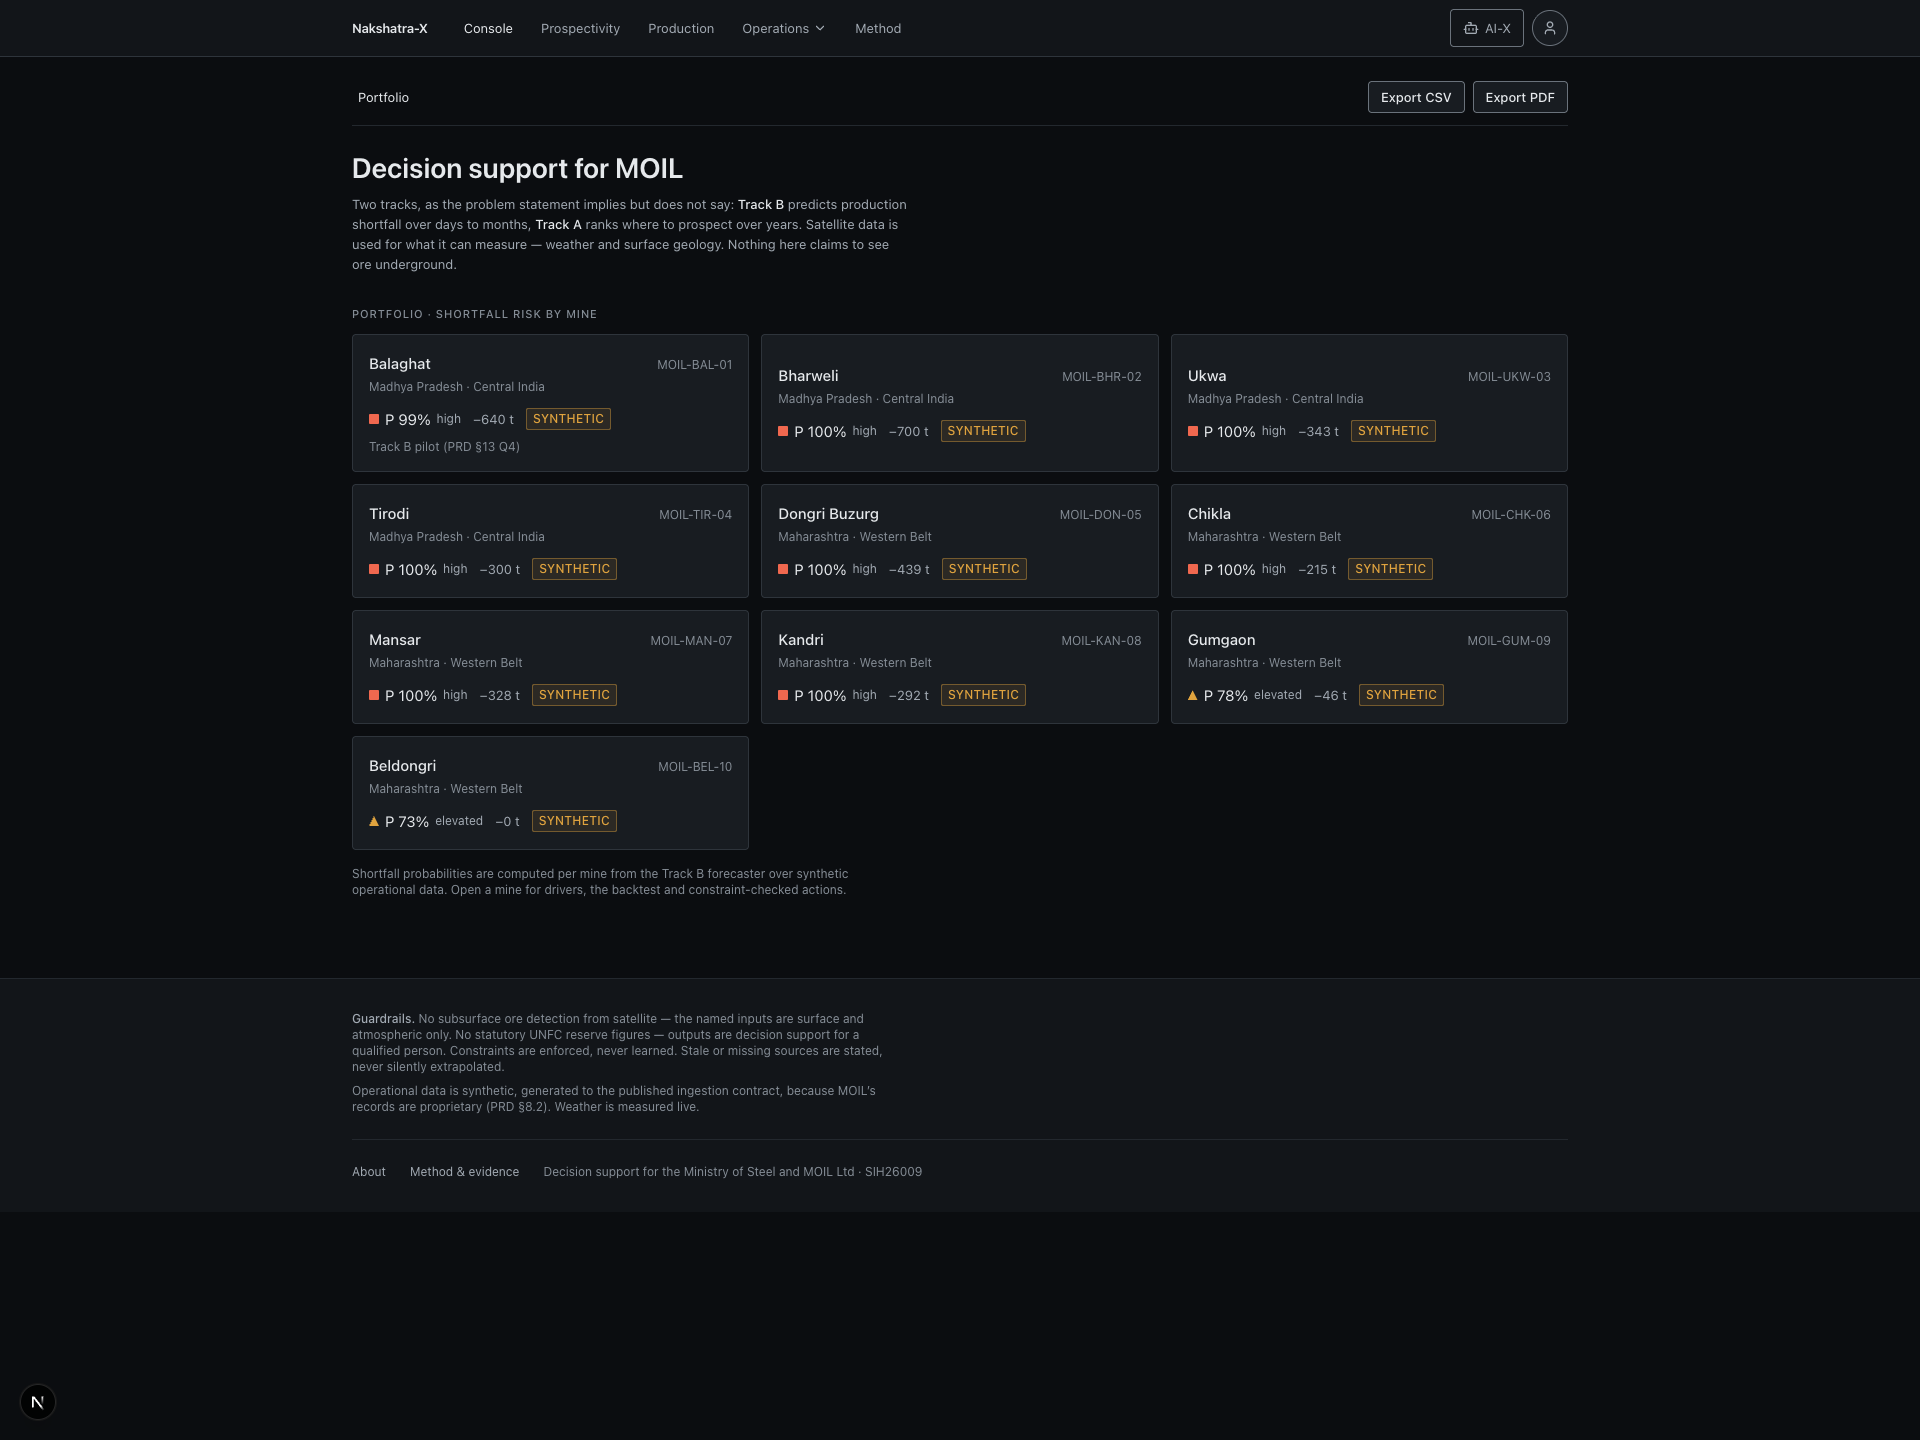
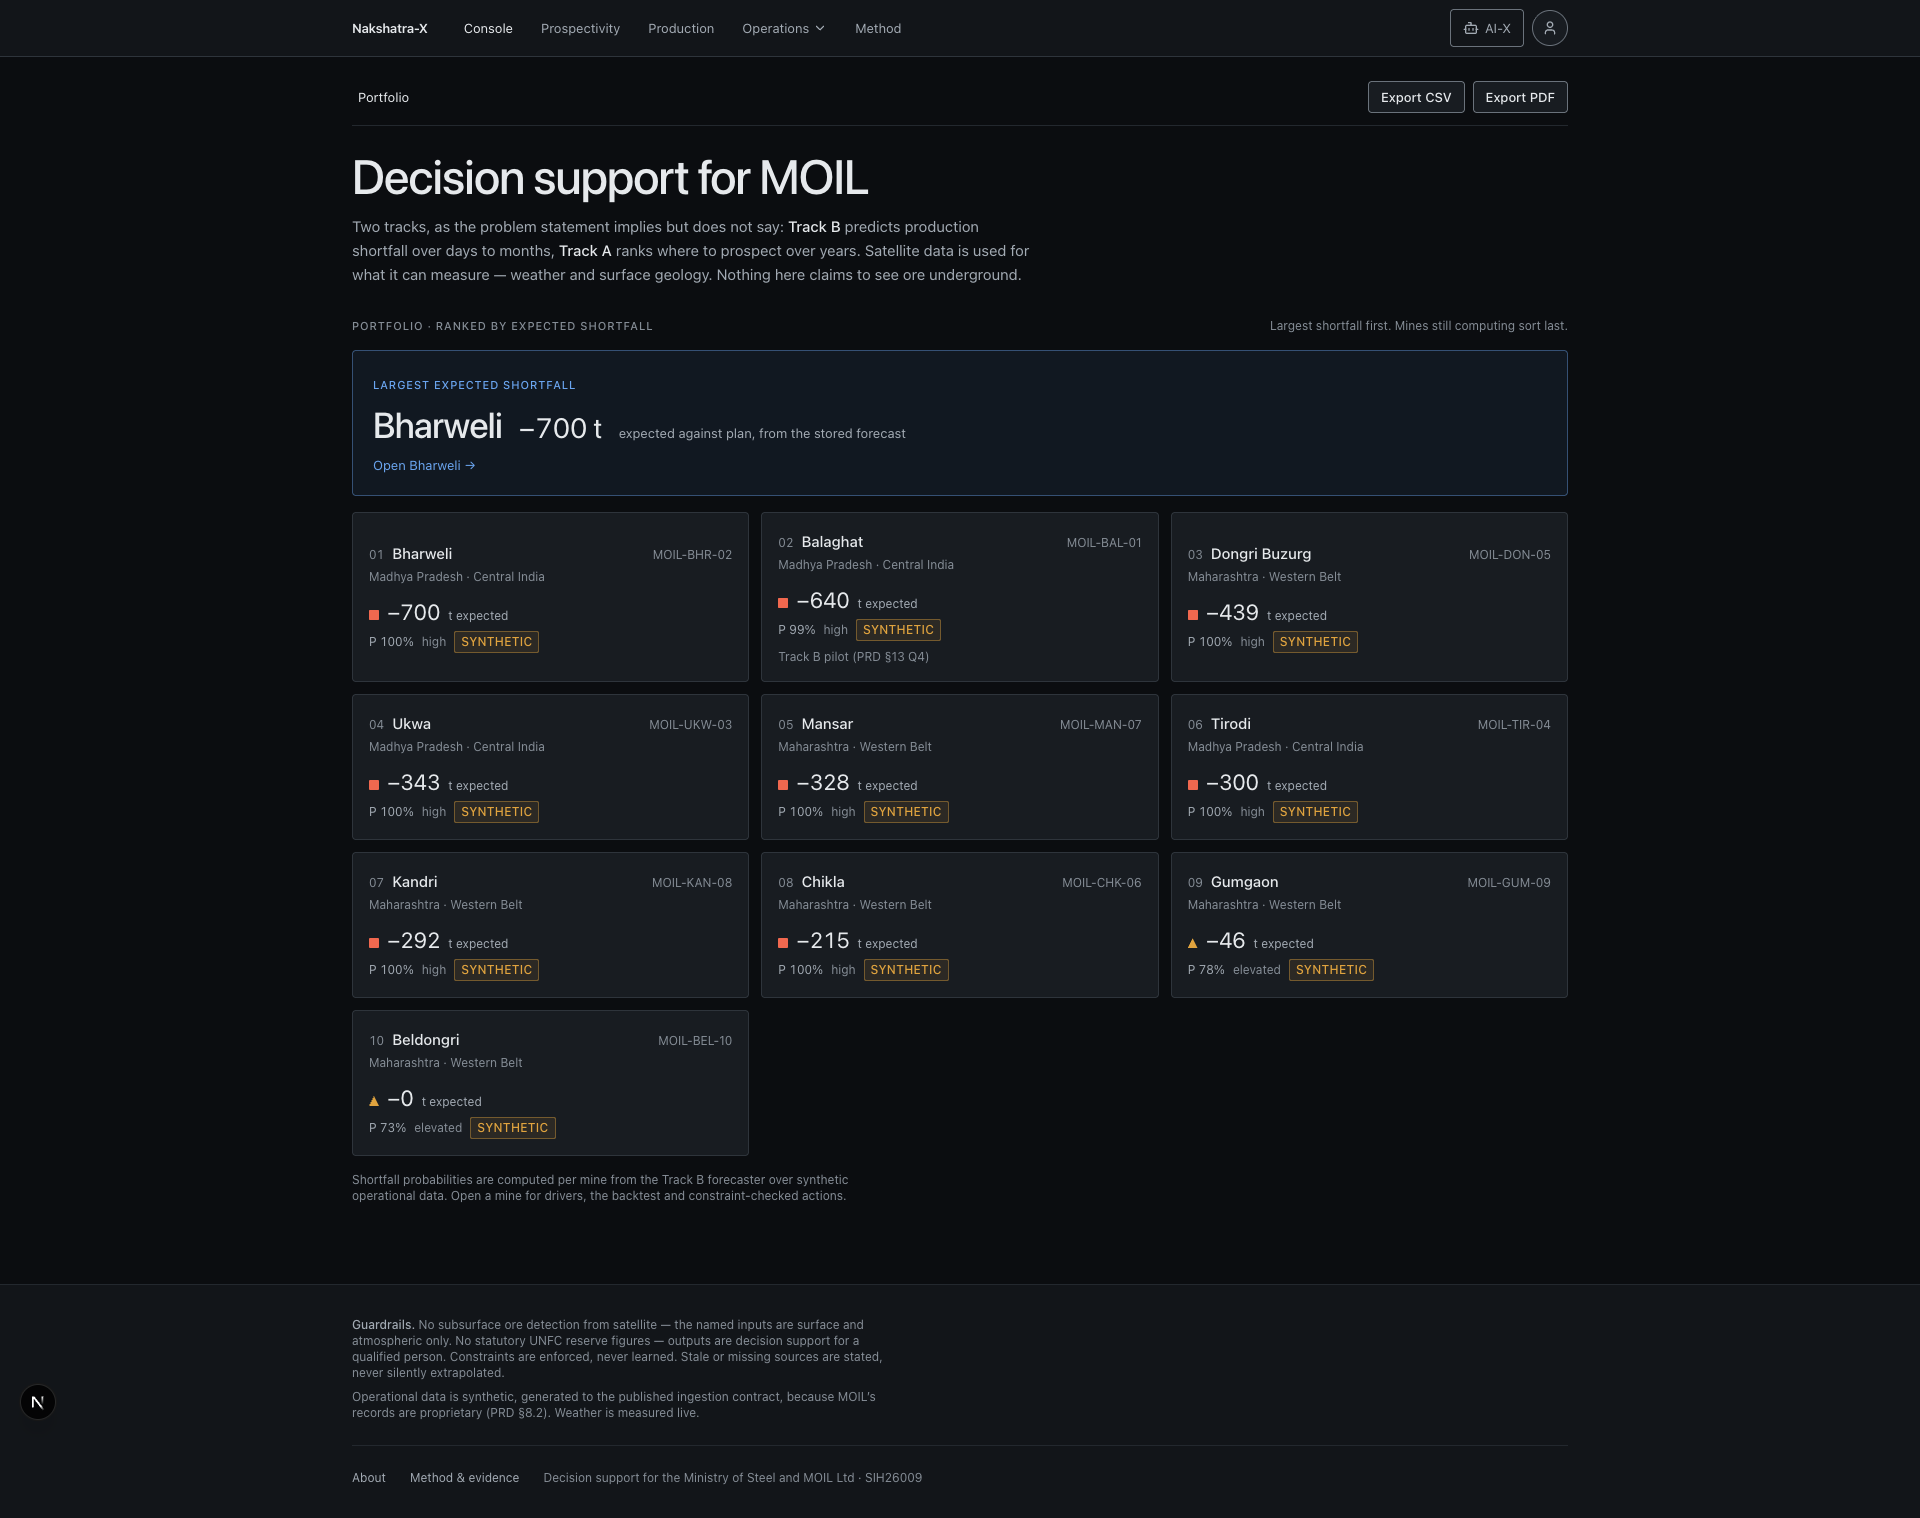
fix(a11y,cls): name the AI-X button, reserve the focal band, calm console motion
Committing the working tree before the P(shortfall) investigation.

Accessibility. The AI-X button's label is `hidden sm:inline` and its icon is
aria-hidden, so below 640px it had no accessible name at all. The project's axe
run only visits desktop widths, which is why it passed there; Lighthouse's
mobile emulation caught it. /console accessibility 94 -> 100.

Layout shift. The focal band appeared only once the first forecasts resolved and
pushed the grid down: CLS 0.158 against a target of 0.1. It reserves its height
now and shows a "ranking the portfolio" placeholder in the meantime, which is how
the cards below it were already built. CLS 0.158 -> 0.057, performance 84 -> 92.

Mine detail. Two named sections — "What the forecaster expects" and "Why you
should believe it" — so the rolling-origin backtest is no longer the seventh
identical panel down the page (B-1 confusions 6 and 7).

Motion. Product surfaces get a bounded panel-enter (180ms, transform and opacity)
and a one-shot resolve highlight; no loops. test:motion now covers the console
and asserts no transition animates a layout property, which is the assertion that
matters rather than an allowlist of compositable ones.

The new constraint-check handler is declared public in the auth matrix with its
reason, like the other stateless computations.

diff --git a/frontend/tools/e2e-motion.js b/frontend/tools/e2e-motion.js
@@ -140,6 +140,64 @@ const sleep = (ms) => new Promise((r) => setTimeout(r, ms))
     await page.close()
   }
 
+  // ---- product surfaces: calm, functional, bounded ------------------------
+  {
+    console.log('\nConsole — product-surface motion\n')
+    const page = await browser.newPage()
+    await page.setViewport({ width: 1280, height: 1000 })
+    await page.goto(`${BASE}/console?mine=1&track=b`, { waitUntil: 'networkidle2', timeout: 60000 })
+    await sleep(14000)
+
+    const motion = await page.evaluate(() => {
+      const all = [...document.querySelectorAll('*')]
+      const animated = all
+        .map((e) => ({ e, cs: getComputedStyle(e) }))
+        .filter(({ cs }) => cs.animationName !== 'none' && cs.animationName)
+      const transitioned = all
+        .map((e) => getComputedStyle(e))
+        .filter((cs) => cs.transitionProperty && cs.transitionProperty !== 'none' && cs.transitionProperty !== 'all')
+      const ms = (v) => v.split(',').map((x) => (x.includes('ms') ? parseFloat(x) : parseFloat(x) * 1000))
+      return {
+        looping: animated.filter(({ cs }) => cs.animationIterationCount === 'infinite')
+          .map(({ e }) => `${e.tagName.toLowerCase()}.${String(e.className).slice(0, 30)}`),
+        longest: Math.max(0, ...animated.flatMap(({ cs }) => ms(cs.animationDuration))),
+        longestTransition: Math.max(0, ...transitioned.flatMap((cs) => ms(cs.transitionDuration))),
+        animatedProps: [...new Set(transitioned.map((cs) => cs.transitionProperty))].slice(0, 12),
+      }
+    })
+
+    check('no looping animation on the console', motion.looping.length === 0,
+      motion.looping.join(', '))
+    check('no animation runs longer than 300 ms', motion.longest <= 300,
+      `longest ${motion.longest} ms`)
+    check('no transition runs longer than 300 ms', motion.longestTransition <= 300,
+      `longest ${motion.longestTransition} ms`)
+    // Assert the absence of layout-triggering properties rather than listing
+    // the allowed ones: the allowlist version failed on Tailwind's own
+    // --tw-gradient-* custom properties, which animate nothing and trigger
+    // nothing. What matters is that no transition forces a reflow.
+    const LAYOUT = /^(width|height|top|left|right|bottom|margin|padding|font-size|line-height|inset|flex|grid)/
+    const offenders = motion.animatedProps
+      .flatMap((pr) => pr.split(',').map((x) => x.trim()))
+      .filter((pr) => LAYOUT.test(pr))
+    check('no transition animates a layout property', offenders.length === 0,
+      offenders.join(', ') || JSON.stringify(motion.animatedProps))
+
+    // Content must survive reduced motion here too.
+    const rm = await browser.newPage()
+    await rm.setViewport({ width: 1280, height: 1000 })
+    await rm.emulateMediaFeatures([{ name: 'prefers-reduced-motion', value: 'reduce' }])
+    await rm.goto(`${BASE}/console?mine=1&track=b`, { waitUntil: 'networkidle2', timeout: 60000 })
+    await sleep(14000)
+    const visible = await rm.evaluate(() => {
+      const el = document.querySelector('[data-testid="forecast-provenance"]')
+      return el ? Number(getComputedStyle(el).opacity) : null
+    })
+    check('reduced motion: the console still renders its content', visible === 1, String(visible))
+    await rm.close()
+    await page.close()
+  }
+
   await browser.close()
   console.log(`\n${failed === 0 ? 'PASS' : 'FAIL'} — ${failed} failing check(s)\n`)
   process.exit(failed === 0 ? 0 : 1)

diff --git a/frontend/src/components/console/DecisionConsole.tsx b/frontend/src/components/console/DecisionConsole.tsx
@@ -359,11 +359,19 @@ export function DecisionConsole() {
                 needs my attention today" — in one line, and the grid below
                 becomes the supporting list rather than the whole answer.
               */}
+              {/*
+                The band reserves its height whether or not a winner is known
+                yet. Without this it appears the moment the first forecasts
+                resolve and pushes the whole grid down — measured CLS 0.158 on
+                /console, against a target of 0.1. The portfolio cards were
+                already built this way for the same reason.
+              */}
+              <div className="mt-4 min-h-[8.5rem]">
               {worst ? (
                 <button
                   type="button"
                   onClick={() => openMine(worst)}
-                  className="mt-4 block w-full rounded-md border border-accent/40 bg-accent-muted/30 p-5 text-left transition-colors duration-[120ms] ease-out hover:bg-accent-muted/50 focus-visible:outline-2 focus-visible:outline-offset-2 focus-visible:outline-accent"
+                  className="block h-full w-full rounded-md border border-accent/40 bg-accent-muted/30 p-5 text-left transition-colors duration-[120ms] ease-out hover:bg-accent-muted/50 focus-visible:outline-2 focus-visible:outline-offset-2 focus-visible:outline-accent"
                   data-provenance="derived"
                   data-provenance-model={PORTFOLIO_ENV.model_version ?? undefined}
                 >
@@ -390,7 +398,15 @@ export function DecisionConsole() {
                     Open {worst.name} &rarr;
                   </span>
                 </button>
-              ) : null}
+              ) : (
+                <div className="h-full rounded-md border border-border-subtle bg-surface-1/50 p-5">
+                  <span className="label text-text-tertiary">Largest expected shortfall</span>
+                  <p className="mt-2 text-sm text-text-tertiary">
+                    Ranking the portfolio&hellip;
+                  </p>
+                </div>
+              )}
+              </div>
 
               <ul className="mt-4 grid list-none gap-3 sm:grid-cols-2 lg:grid-cols-3">
                 {ranked.map((m, rank) => {

diff --git a/frontend/src/components/console/TrackBPanel.tsx b/frontend/src/components/console/TrackBPanel.tsx
@@ -188,7 +188,9 @@ export function TrackBPanel({ mineId, mineName }: { mineId: number; mineName: st
   const selected = grades.find((g) => g.grade === grade) ?? grades[0] ?? null
 
   return (
-    <section className="space-y-4">
+    // Calm arrival for the whole panel when a different mine is opened. Keyed
+    // on the mine so it plays on change, not on every re-render.
+    <section key={mineId} className="panel-enter space-y-4">
       <header className="flex flex-wrap items-baseline justify-between gap-2">
         <h2 className="text-sm font-semibold uppercase tracking-wider text-accent">
           Track B · Production shortfall
@@ -251,6 +253,12 @@ export function TrackBPanel({ mineId, mineName }: { mineId: number; mineName: st
             )
           })()
         : null}
+
+      <div>
+        <h2 className="font-display text-2xl font-medium tracking-tight">
+          What the forecaster expects
+        </h2>
+      </div>
 
       {/* --- D-3 shortfall risk, D-2 trends --- */}
       {fWarm ? (
@@ -433,6 +441,24 @@ export function TrackBPanel({ mineId, mineName }: { mineId: number; mineName: st
           ) : null}
         </>
       )}
+
+      {/*
+        B-1 confusion 6 and 7. Everything below arrived as one sequence of
+        same-weight panels, so nothing said which to read first and the
+        strongest thing this product can say — a rolling-origin backtest
+        against a seasonal-naive baseline — sat two thirds down the page in the
+        same box as everything else.
+        The page is two parts now: what we think, and why you should believe
+        it. This heading is the seam.
+      */}
+      <div className="border-t border-border-strong pt-6">
+        <h2 className="font-display text-2xl font-medium tracking-tight">
+          Why you should believe it
+        </h2>
+        <p className="measure mt-2 text-sm text-text-secondary">
+          Held-out accuracy and the constraint checks behind every action above.
+        </p>
+      </div>
 
       {/* --- N-8: backtest visible in the UI --- */}
       <div className="rounded-md border border-border-default bg-surface-2 p-3">

diff --git a/frontend/src/app/globals.css b/frontend/src/app/globals.css
@@ -187,3 +187,40 @@
   font-family: var(--font-display);
   font-feature-settings: 'ss01' on;
 }
+
+
+/* ---------------------------------------------------------------------------
+   Product-surface motion (B-4, product half).
+   Calm and functional: it tells you something changed and then stops. The
+   landing page keeps its narrative; nothing here scrubs, pins or loops.
+   Everything respects the global prefers-reduced-motion rule above.
+   --------------------------------------------------------------------------- */
+
+/* A panel or route arriving. Opacity and a small lift, transform only. */
+@keyframes panel-enter {
+  from { opacity: 0; transform: translate3d(0, 6px, 0); }
+  to   { opacity: 1; transform: none; }
+}
+
+.panel-enter {
+  animation: panel-enter var(--duration-disclosure) var(--ease-out) both;
+}
+
+/* One-shot highlight when a map click resolves to a real prediction. It fires
+   once and leaves no trace: a looping pulse on a resolved value reads as a
+   live feed, and none of this is live. */
+@keyframes resolve-once {
+  0%   { background-color: var(--color-accent-muted); }
+  100% { background-color: transparent; }
+}
+
+.resolve-once {
+  animation: resolve-once 900ms var(--ease-out) 1 both;
+}
+
+@media (prefers-reduced-motion: reduce) {
+  .panel-enter,
+  .resolve-once {
+    animation: none;
+  }
+}

diff --git a/frontend/tools/auth-matrix.js b/frontend/tools/auth-matrix.js
@@ -57,6 +57,9 @@ const PUBLIC = {
     'Stateless computation. Proxies a linear program, persists nothing, and returns no user or operational record.',
   'POST /api/v1/prospectivity/predict':
     'Stateless computation. Scores a coordinate against the published model; persists nothing.',
+  'POST /api/v1/scenario/constraint-check':
+    'Stateless computation. Runs a set of scenario controls through the constraint engine and ' +
+    'returns a verdict; reads no record, writes none, and reveals nothing a mine register does not.',
   'POST /api/v1/historical-forecasts':
     'Stateless computation over a seeded synthetic series. Persists nothing.',
   'POST /api/v1/mine-twin':

diff --git a/frontend/src/components/shell/AppBar.tsx b/frontend/src/components/shell/AppBar.tsx
@@ -189,6 +189,11 @@ export default function AppBar() {
           <button
             type="button"
             onClick={openCopilot}
+            // The visible label is `hidden sm:inline` and the icon is
+            // aria-hidden, so below 640px this button had no accessible name at
+            // all. The project's axe run only visits desktop widths, which is
+            // why it passed there and Lighthouse's mobile emulation did not.
+            aria-label="Open the AI-X assistant"
             className={clsx(
               LINK_BASE,
               'inline-flex items-center gap-1.5 border border-border-interactive text-text-secondary'
